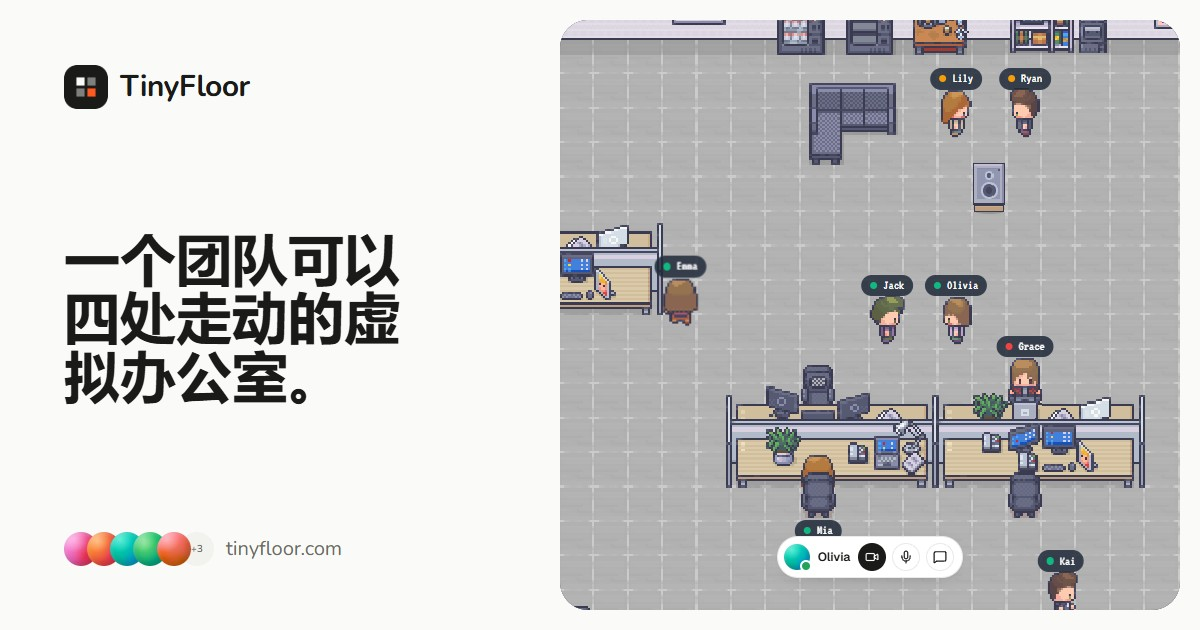
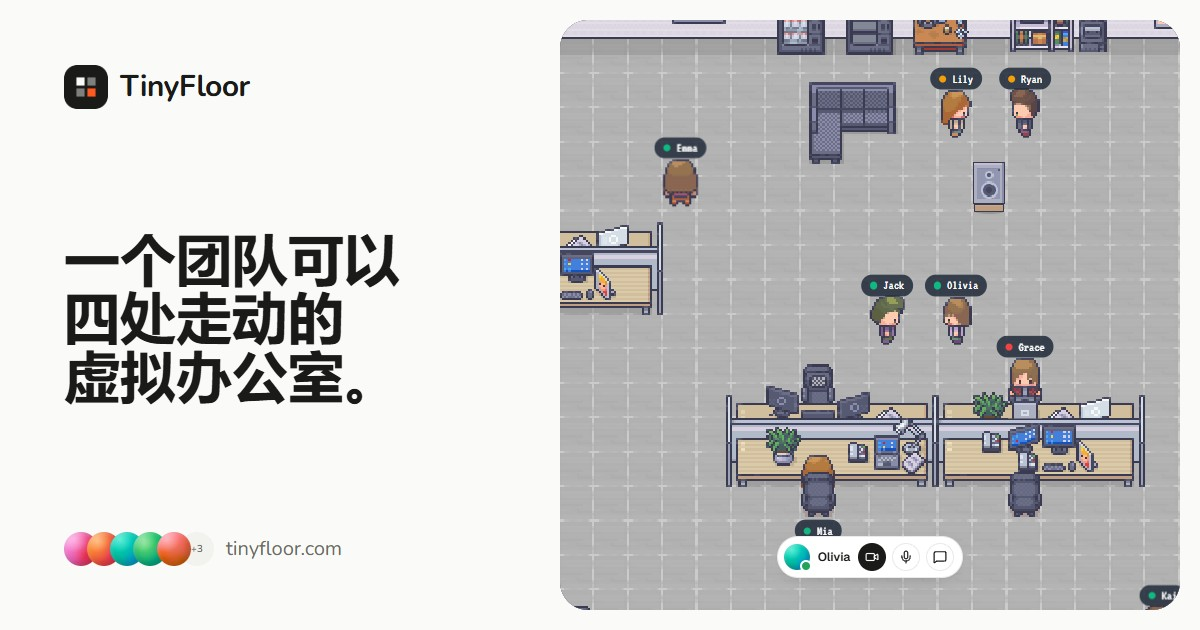
keep cjk headline words whole on the site and social cards

diff --git a/frontend-nextjs/src/app/[locale]/og-render/page.tsx b/frontend-nextjs/src/app/[locale]/og-render/page.tsx
@@ -7,6 +7,7 @@ import { NearbyBar } from "@/components/floor/PlayableYou";
 import { FaceStack } from "@/components/ui/Face";
 import { LANDINGS } from "@/lib/landings";
 import { cn } from "@/lib/utils";
+import { emphasised } from "@/lib/words";
 
 import { notFound } from "next/navigation";
 
@@ -28,17 +29,12 @@ export default async function Page({ params, searchParams }: { params: Promise<{
         : page === "neutral"
           ? ""
           : (t.raw(`landings.pages.${landing!.key}.title` as "home.hero.title") as string);
-  const title = raw ? highlight(String(raw)) : null;
+  const title = raw ? emphasised(String(raw), locale, "text-brand") : null;
   return (
     <div id="card" className="relative h-[630px] w-[1200px] overflow-hidden bg-background font-(family-name:--font-body) text-foreground">
       <Split title={title} labels={{ video: t("home.preview.video"), audio: t("home.preview.audio"), message: t("home.preview.message") }} />
     </div>
   );
-}
-
-/** Copy's <em> in the brand colour. */
-function highlight(text: string): ReactNode {
-  return text.split(/<em>|<\/em>/).map((part, i) => (i % 2 ? <span key={i} className="text-brand">{part}</span> : part));
 }
 
 function Mark({ className }: { className?: string }) {
@@ -57,7 +53,7 @@ function Split({ title, labels }: { title: ReactNode; labels: { video: string; a
       <div className="flex flex-col justify-between p-16">
         <Mark />
         {title ? (
-          <p className="text-balance text-[56px] font-bold leading-[1.04] tracking-[-0.035em] [:lang(ja)_&]:tracking-normal [:lang(ko)_&]:tracking-normal [:lang(zh)_&]:tracking-normal [:lang(ja)_&]:[word-break:auto-phrase]">{title}</p>
+          <p className="text-balance text-[56px] font-bold leading-[1.04] tracking-[-0.035em] [:lang(ja)_&]:tracking-normal [:lang(ko)_&]:tracking-normal [:lang(zh)_&]:tracking-normal">{title}</p>
         ) : (
           <p className="text-balance text-[56px] font-bold leading-[1.04] tracking-[-0.035em]">
             A virtual office <span className="text-brand">you walk around in.</span>

diff --git a/frontend-nextjs/src/components/home/Blocks.tsx b/frontend-nextjs/src/components/home/Blocks.tsx
@@ -1,9 +1,10 @@
 import type { ReactNode } from "react";
-import { useTranslations } from "next-intl";
+import { useLocale, useTranslations } from "next-intl";
 import { ArrowRight, Globe2, LockKeyhole, MonitorSmartphone } from "lucide-react";
 import { Link } from "@/lib/i18n/navigation";
 import { Face, FaceStack } from "@/components/ui/Face";
 import { cn } from "@/lib/utils";
+import { wholeWords } from "@/lib/words";
 import { HeroPreview } from "./HeroPreview";
 import { COLUMN, HomeNav } from "./HomeNav";
 import { SiteFooter } from "./SiteFooter";
@@ -72,6 +73,8 @@ export function Heading({
   /** Puts the quieter half on its own line. */
   block?: boolean;
 }) {
+  const locale = useLocale();
+  const words = (text: ReactNode) => (typeof text === "string" ? wholeWords(text, locale) : text);
   return (
     <Tag
       className={cn(
@@ -81,11 +84,11 @@ export function Heading({
         className,
       )}
     >
-      {title}
+      {words(title)}
       {muted && (
         <>
           {gap(title)}
-          <span className={cn("text-muted-foreground/80", block && "block")}>{muted}</span>
+          <span className={cn("text-muted-foreground/80", block && "block")}>{words(muted)}</span>
         </>
       )}
     </Tag>
@@ -181,17 +184,18 @@ export function DayCard({
   body: string;
   children: ReactNode;
 }) {
+  const locale = useLocale();
   return (
     <article
       id={id}
       className="grid min-w-0 scroll-mt-24 grid-cols-1 grid-rows-[auto_auto_1fr] overflow-hidden rounded-[28px] border border-border/60 bg-foreground/[0.035] lg:row-span-3 lg:grid-rows-subgrid lg:gap-y-0"
     >
       <h3 className={cn("px-7 pt-7 text-pretty text-[20px] font-semibold leading-[1.3] tracking-[-0.02em] sm:px-8 sm:pt-8", CJK_HEADLINE)}>
-        {title}
+        {wholeWords(title, locale)}
         {muted && (
           <span className="text-muted-foreground/80">
             {gap(title)}
-            {muted}
+            {wholeWords(muted, locale)}
           </span>
         )}
       </h3>

diff --git a/frontend-nextjs/src/components/landing/LandingPage.tsx b/frontend-nextjs/src/components/landing/LandingPage.tsx
@@ -1,4 +1,3 @@
-import type { ReactNode } from "react";
 import { getTranslations } from "next-intl/server";
 import {
   ArrowRight,
@@ -31,6 +30,7 @@ import { faqNode, pageGraph } from "@/lib/structured-data";
 import { JsonLd } from "@/components/JsonLd";
 import { Logo } from "@/components/app/AppShell";
 import { cn } from "@/lib/utils";
+import { emphasised } from "@/lib/words";
 import {
   CJK_HEADLINE,
   COLUMN,
@@ -66,9 +66,6 @@ const POINT_ICONS: Record<LandingKey, [LucideIcon, LucideIcon, LucideIcon]> = {
   virtualClassroom: [GraduationCap, Users, PenLine],
   proximityChat: [Footprints, Users, ShieldCheck],
 };
-
-/** The words of a page's headline that name what it's about, in the brand colour. */
-const accent = (chunks: ReactNode) => <span className="text-brand">{chunks}</span>;
 
 /**
  * One page written for a search, in the site's design: the pitch over the
@@ -107,7 +104,7 @@ export async function LandingPage({ page, locale }: { page: Landing; locale: str
               CJK_HEADLINE,
             )}
           >
-            {t.rich(`pages.${page.key}.title`, { em: accent })}
+            {emphasised(t.raw(`pages.${page.key}.title`) as string, locale, "text-brand")}
           </h1>
           <p className="mt-6 max-w-[38rem] text-pretty text-[17px] leading-relaxed text-muted-foreground sm:text-[19px]">{copy.subtitle}</p>
           <Actions className="mt-10" />

diff --git a/frontend-nextjs/src/components/home/HomePage.tsx b/frontend-nextjs/src/components/home/HomePage.tsx
@@ -1,9 +1,10 @@
 import type { ReactNode } from "react";
-import { useTranslations } from "next-intl";
+import { useLocale, useTranslations } from "next-intl";
 import { AudioLines, Check, Clock3, Languages, MonitorUp, Music2, PenLine, Smartphone } from "lucide-react";
 import { Link } from "@/lib/i18n/navigation";
 import { FaceStack } from "@/components/ui/Face";
 import { cn } from "@/lib/utils";
+import { wholeWords } from "@/lib/words";
 import { CJK_HEADLINE, COLUMN, Actions, DayCard, Faq, Final, Heading, INK, LobbyPill, MarketingShell, ProductPreview, STONE, Trust } from "./Blocks";
 import { Moments, Steps, UseCases } from "./Moments";
 import { CAST, Frame } from "./previews/Frame";
@@ -37,6 +38,7 @@ export function HomePage({ faqs }: { faqs: Array<{ q: string; a: string }> }) {
 
 function Hero() {
   const t = useTranslations("home");
+  const locale = useLocale();
   const points = t.raw("hero.points") as string[];
   return (
     <section className={cn(COLUMN, "pt-14 sm:pt-24")}>
@@ -48,7 +50,7 @@ function Hero() {
             CJK_HEADLINE,
           )}
         >
-          {t("hero.title")}
+          {wholeWords(t("hero.title"), locale)}
         </h1>
         <p className="mt-6 max-w-[38rem] text-pretty text-[17px] leading-relaxed text-muted-foreground sm:text-[19px]">{t("hero.body")}</p>
         <Actions className="mt-10" />

diff --git a/frontend-nextjs/src/lib/words.tsx b/frontend-nextjs/src/lib/words.tsx
@@ -1,0 +1,36 @@
+import type { ReactNode } from "react";
+
+/** Languages written without spaces, where a line can otherwise break in the middle of a word. */
+const UNSPACED = ["ja", "zh"];
+
+/**
+ * A headline in Chinese or Japanese with each word kept whole, so its lines
+ * break between words rather than inside one. Punctuation stays with the word
+ * before it. Everything else is returned as it is.
+ */
+export function wholeWords(text: string, locale: string): ReactNode {
+  if (!UNSPACED.includes(locale)) return text;
+  const words: string[] = [];
+  for (const { segment, isWordLike } of new Intl.Segmenter(locale, { granularity: "word" }).segment(text)) {
+    if (!isWordLike && words.length) words[words.length - 1] += segment;
+    else words.push(segment);
+  }
+  return words.map((word, i) => (
+    <span key={i} className="inline-block">
+      {word}
+    </span>
+  ));
+}
+
+/** Copy with its <em> parts set in `className`, each part's words kept whole. */
+export function emphasised(text: string, locale: string, className: string): ReactNode {
+  return text.split(/<em>|<\/em>/).map((part, i) =>
+    i % 2 ? (
+      <span key={i} className={className}>
+        {wholeWords(part, locale)}
+      </span>
+    ) : (
+      <span key={i}>{wholeWords(part, locale)}</span>
+    ),
+  );
+}

diff --git a/frontend-nextjs/src/app/globals.css b/frontend-nextjs/src/app/globals.css
@@ -59,6 +59,12 @@ body {
   -moz-osx-font-smoothing: grayscale;
 }
 
+/* Korean wraps between words, the way it's spaced, not inside them. */
+:root:lang(ko) {
+  word-break: keep-all;
+  overflow-wrap: break-word;
+}
+
 /* Scrollbar styles */
 ::-webkit-scrollbar {
   width: 8px;
